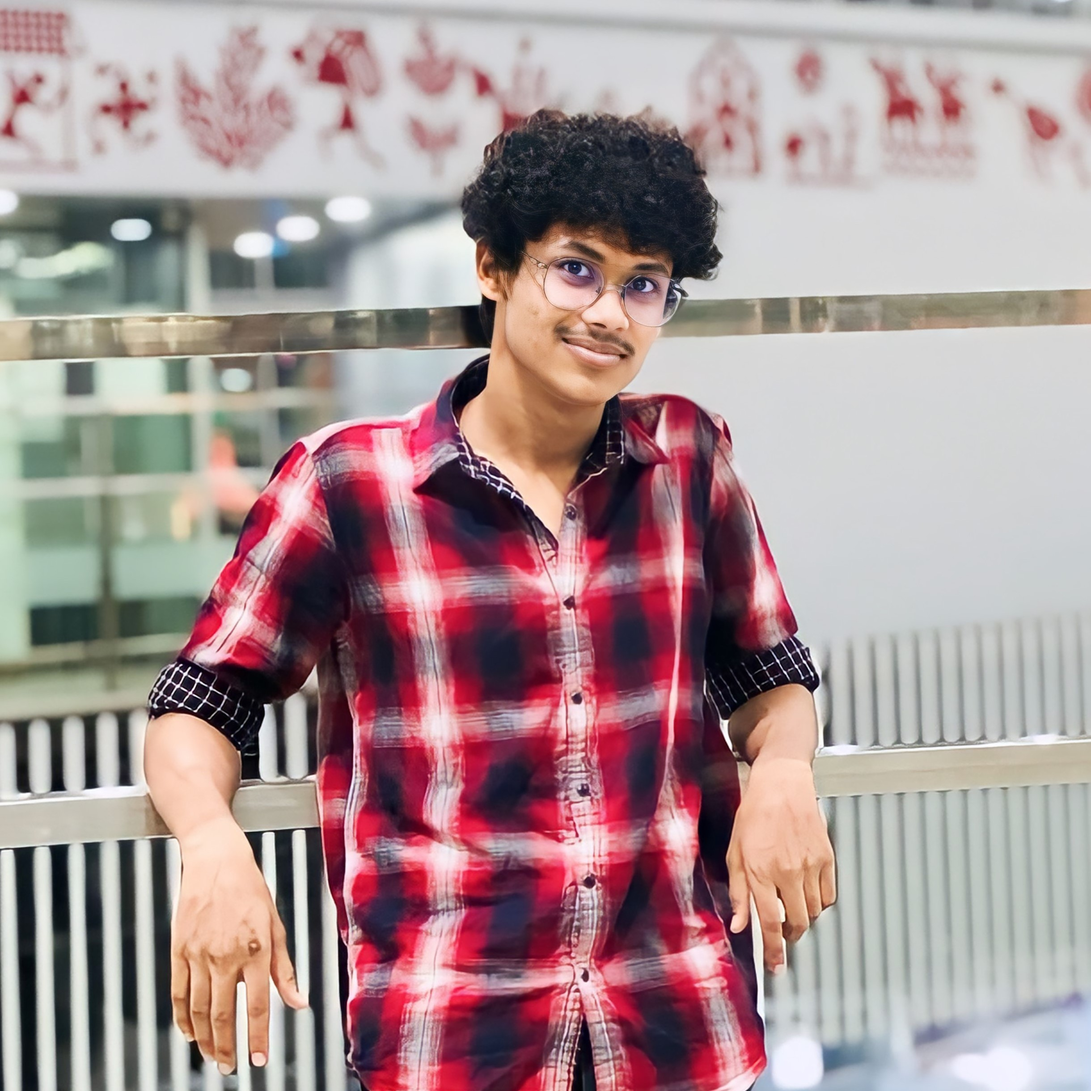
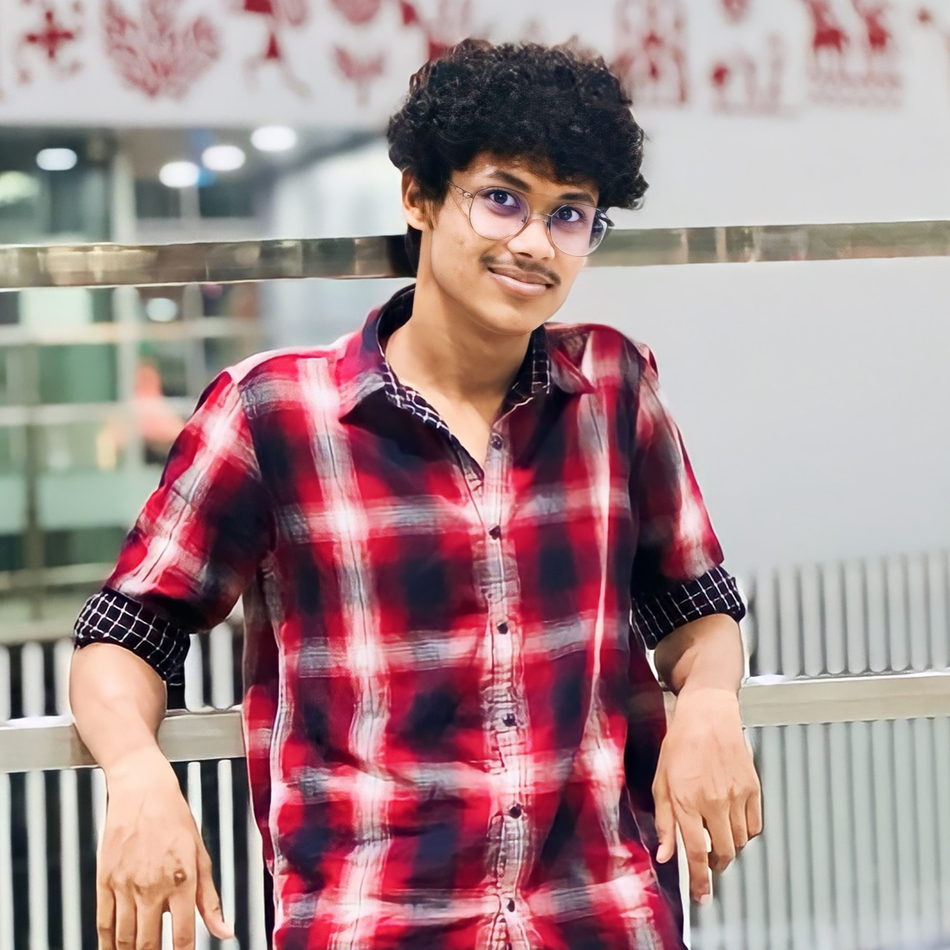
Update: SM info

diff --git a/src/components/Team/StudentMembers.js b/src/components/Team/StudentMembers.js
@@ -1,7 +1,7 @@
 import dummy from "./SM/dummy.jpg";
 import Anamika from "./SM/Anamika.jpg";
 import Animesh from "./SM/Animesh.jpg";
-import Archisa from "./SM/Archisa.jpg";
+import Archisha from "./SM/Archisha.jpg";
 import Dhruv from "./SM/Dhruv.jpg";
 import Isha from "./SM/Isha.jpg";
 import Namanya from "./SM/Namanya.jpg";
@@ -11,12 +11,19 @@ import Shivaji from "./SM/Shivaji.jpg";
 import Vasanth from "./SM/Vasanth.jpg";
 import Vishakha from "./SM/Vishakha.jpg";
 import Vishal from "./SM/Vishal.jpg";
+import Abhinav from "./SM/Abhinav.jpg";
+import Neeraj from "./SM/Neeraj.jpg";
+import Esam from "./SM/Esam.jpg";
+import Himanshu from "./SM/Himanshu.jpg";
+import Shashi from "./SM/Shashi.jpg";
+import Dishil from "./SM/Dishil.jpg";
+import Dhanraj from "./SM/Dhanraj.jpg";
 
 
 const studData = [
   {
     name: "Abhinav",
-    img: dummy,
+    img: Abhinav,
     pos: "Student Member",
   },
   {
@@ -31,12 +38,12 @@ const studData = [
   },
   {
     name: "Annangi Neeraj Kumar",
-    img: dummy,
+    img: Neeraj,
     pos: "Student Member",
   },
   {
-    name: "Archisa Paul",
-    img: Archisa,
+    name: "Archisha Paul",
+    img: Archisha,
     pos: "Student Member",
   },
   {
@@ -46,7 +53,7 @@ const studData = [
   },
   {
     name: "Dhanraj Patil",
-    img: dummy,
+    img: Dhanraj,
     pos: "Student Member",
   },
   {
@@ -61,12 +68,12 @@ const studData = [
   },
   {
     name: "Esam Ashok",
-    img: dummy,
+    img: Esam,
     pos: "Student Member",
   },
   {
     name: "Himanshu Raj",
-    img: dummy,
+    img: Himanshu,
     pos: "Student Member",
   },
   {
@@ -96,14 +103,14 @@ const studData = [
   },
   {
     name: "Shashi Vallabh Makkapati",
-    img: dummy,
+    img: Shashi,
     pos: "Student Member",
   },
-  {
-    name: "Siddhi Datri ",
-    img: dummy,
-    pos: "Student Member",
-  },
+  // {
+  //   name: "Siddhi Datri ",
+  //   img: dummy,
+  //   pos: "Student Member",
+  // },
   {
     name: "Vishakha Priya",
     img: Vishakha,
@@ -116,7 +123,7 @@ const studData = [
   },
   {
     name: "Zalavadiya Dishil",
-    img: dummy,
+    img: Dishil,
     pos: "Student Member",
   },
 
